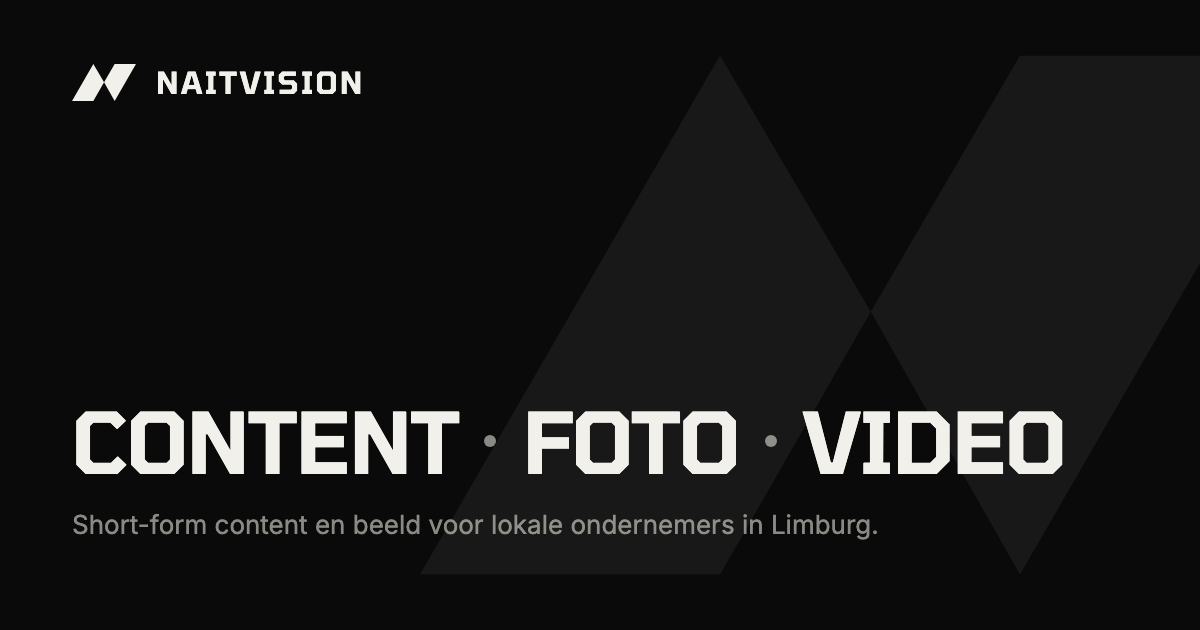
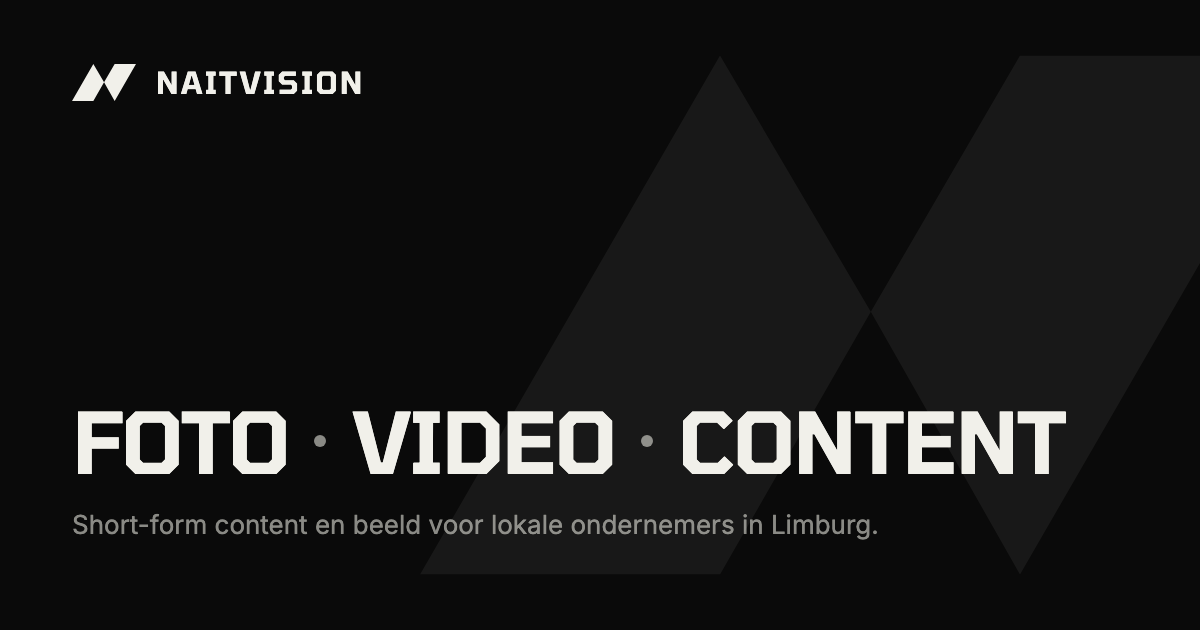
Hero order: Foto, Video, Content (site and share image)

Changed region(s): [[0.0617, 0.6333, 0.8942, 0.754]]

diff --git a/src/content/site.ts b/src/content/site.ts
@@ -91,7 +91,7 @@ const nl = {
       { media: '/media/reel-stadion', alt: '' },
       { media: '/media/reel-wellness', alt: '' },
     ] as Media[],
-    words: ['Content', 'Foto', 'Video'],
+    words: ['Foto', 'Video', 'Content'],
     h1: 'Short-form content en beeld voor lokale ondernemers in Limburg.',
     scroll: 'Scroll',
   },
